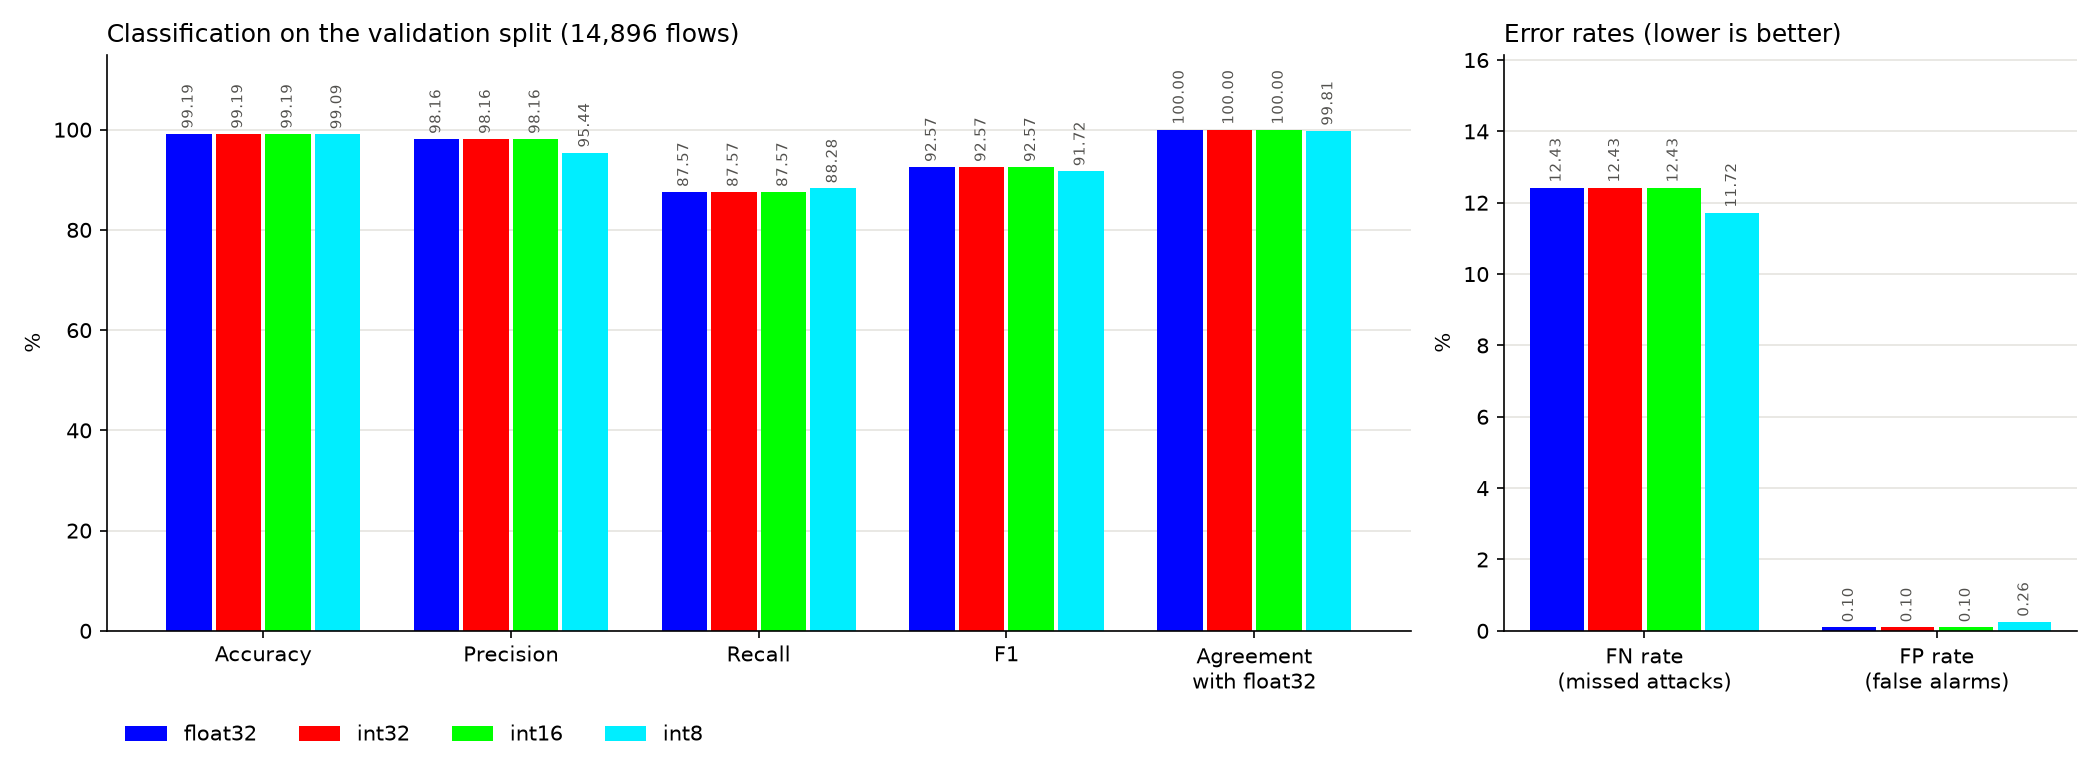
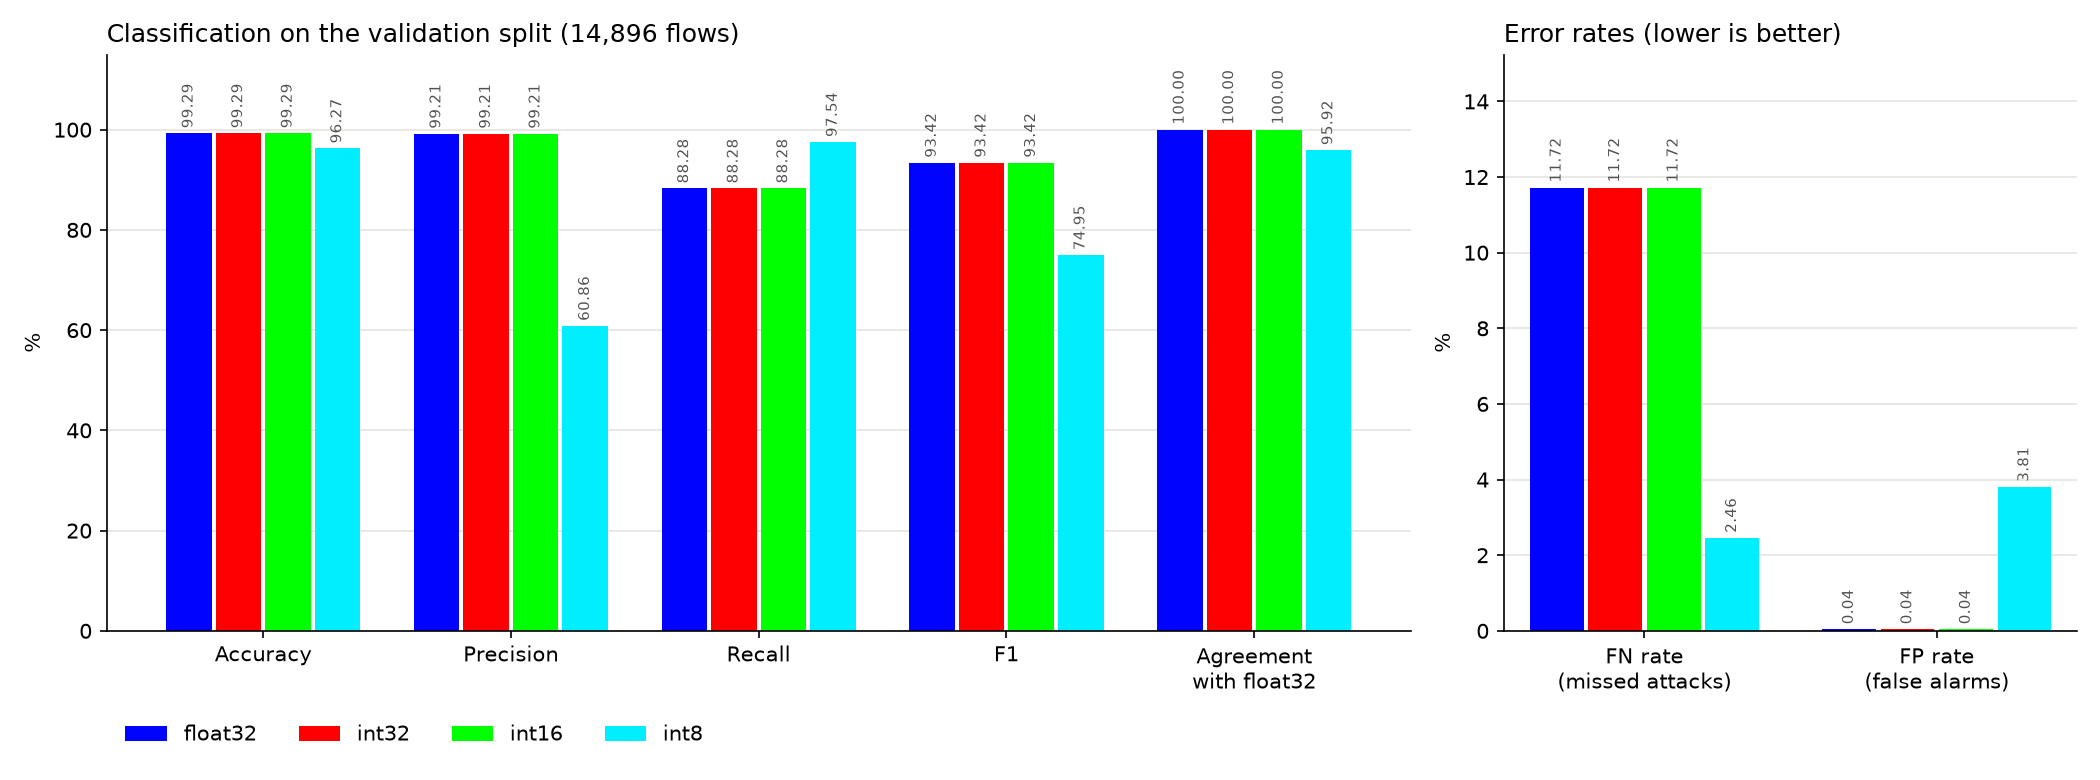
both attacks for presentation

diff --git a/src/flowextractor/model/model.py b/src/flowextractor/model/model.py
@@ -15,6 +15,8 @@ class AttackDetectionNet(torch.nn.Module):
         self.layers = torch.nn.Sequential(
             torch.nn.Linear(10, 16),
             torch.nn.ReLU(),
+            torch.nn.Linear(16, 16),
+            torch.nn.ReLU(),
             torch.nn.Linear(16, 8),
             torch.nn.ReLU(),
             torch.nn.Linear(8, 1)
